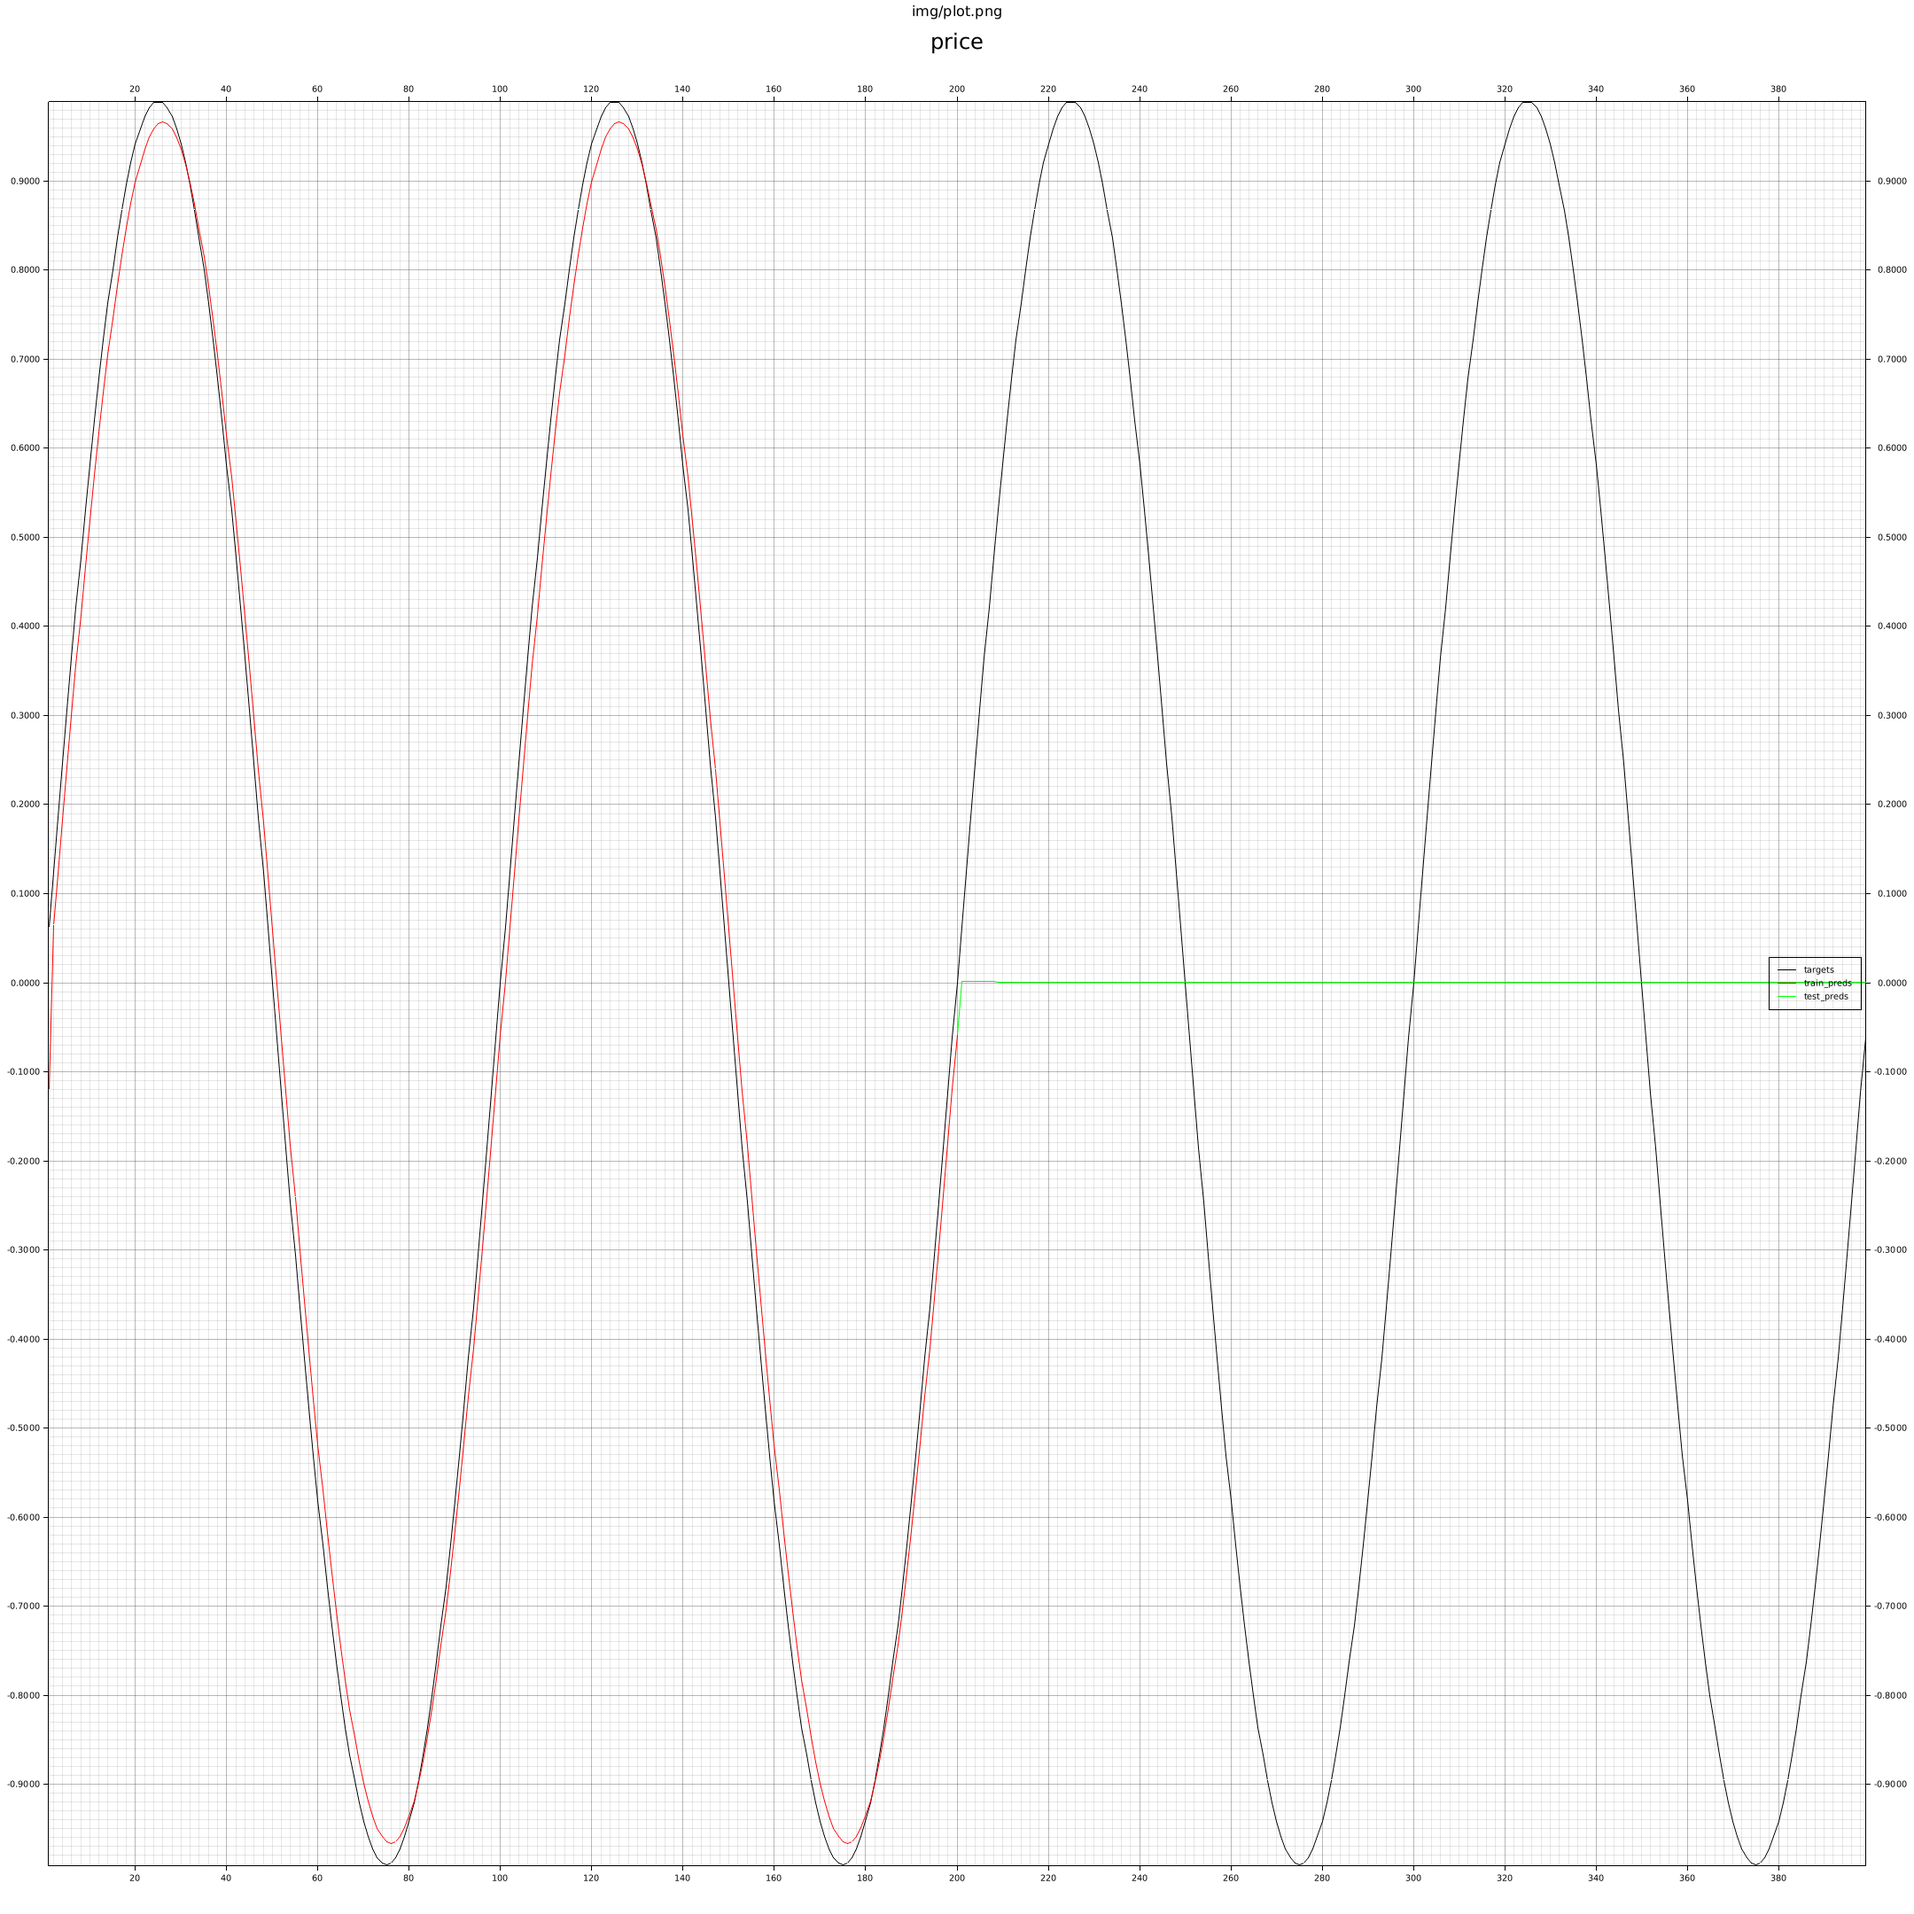
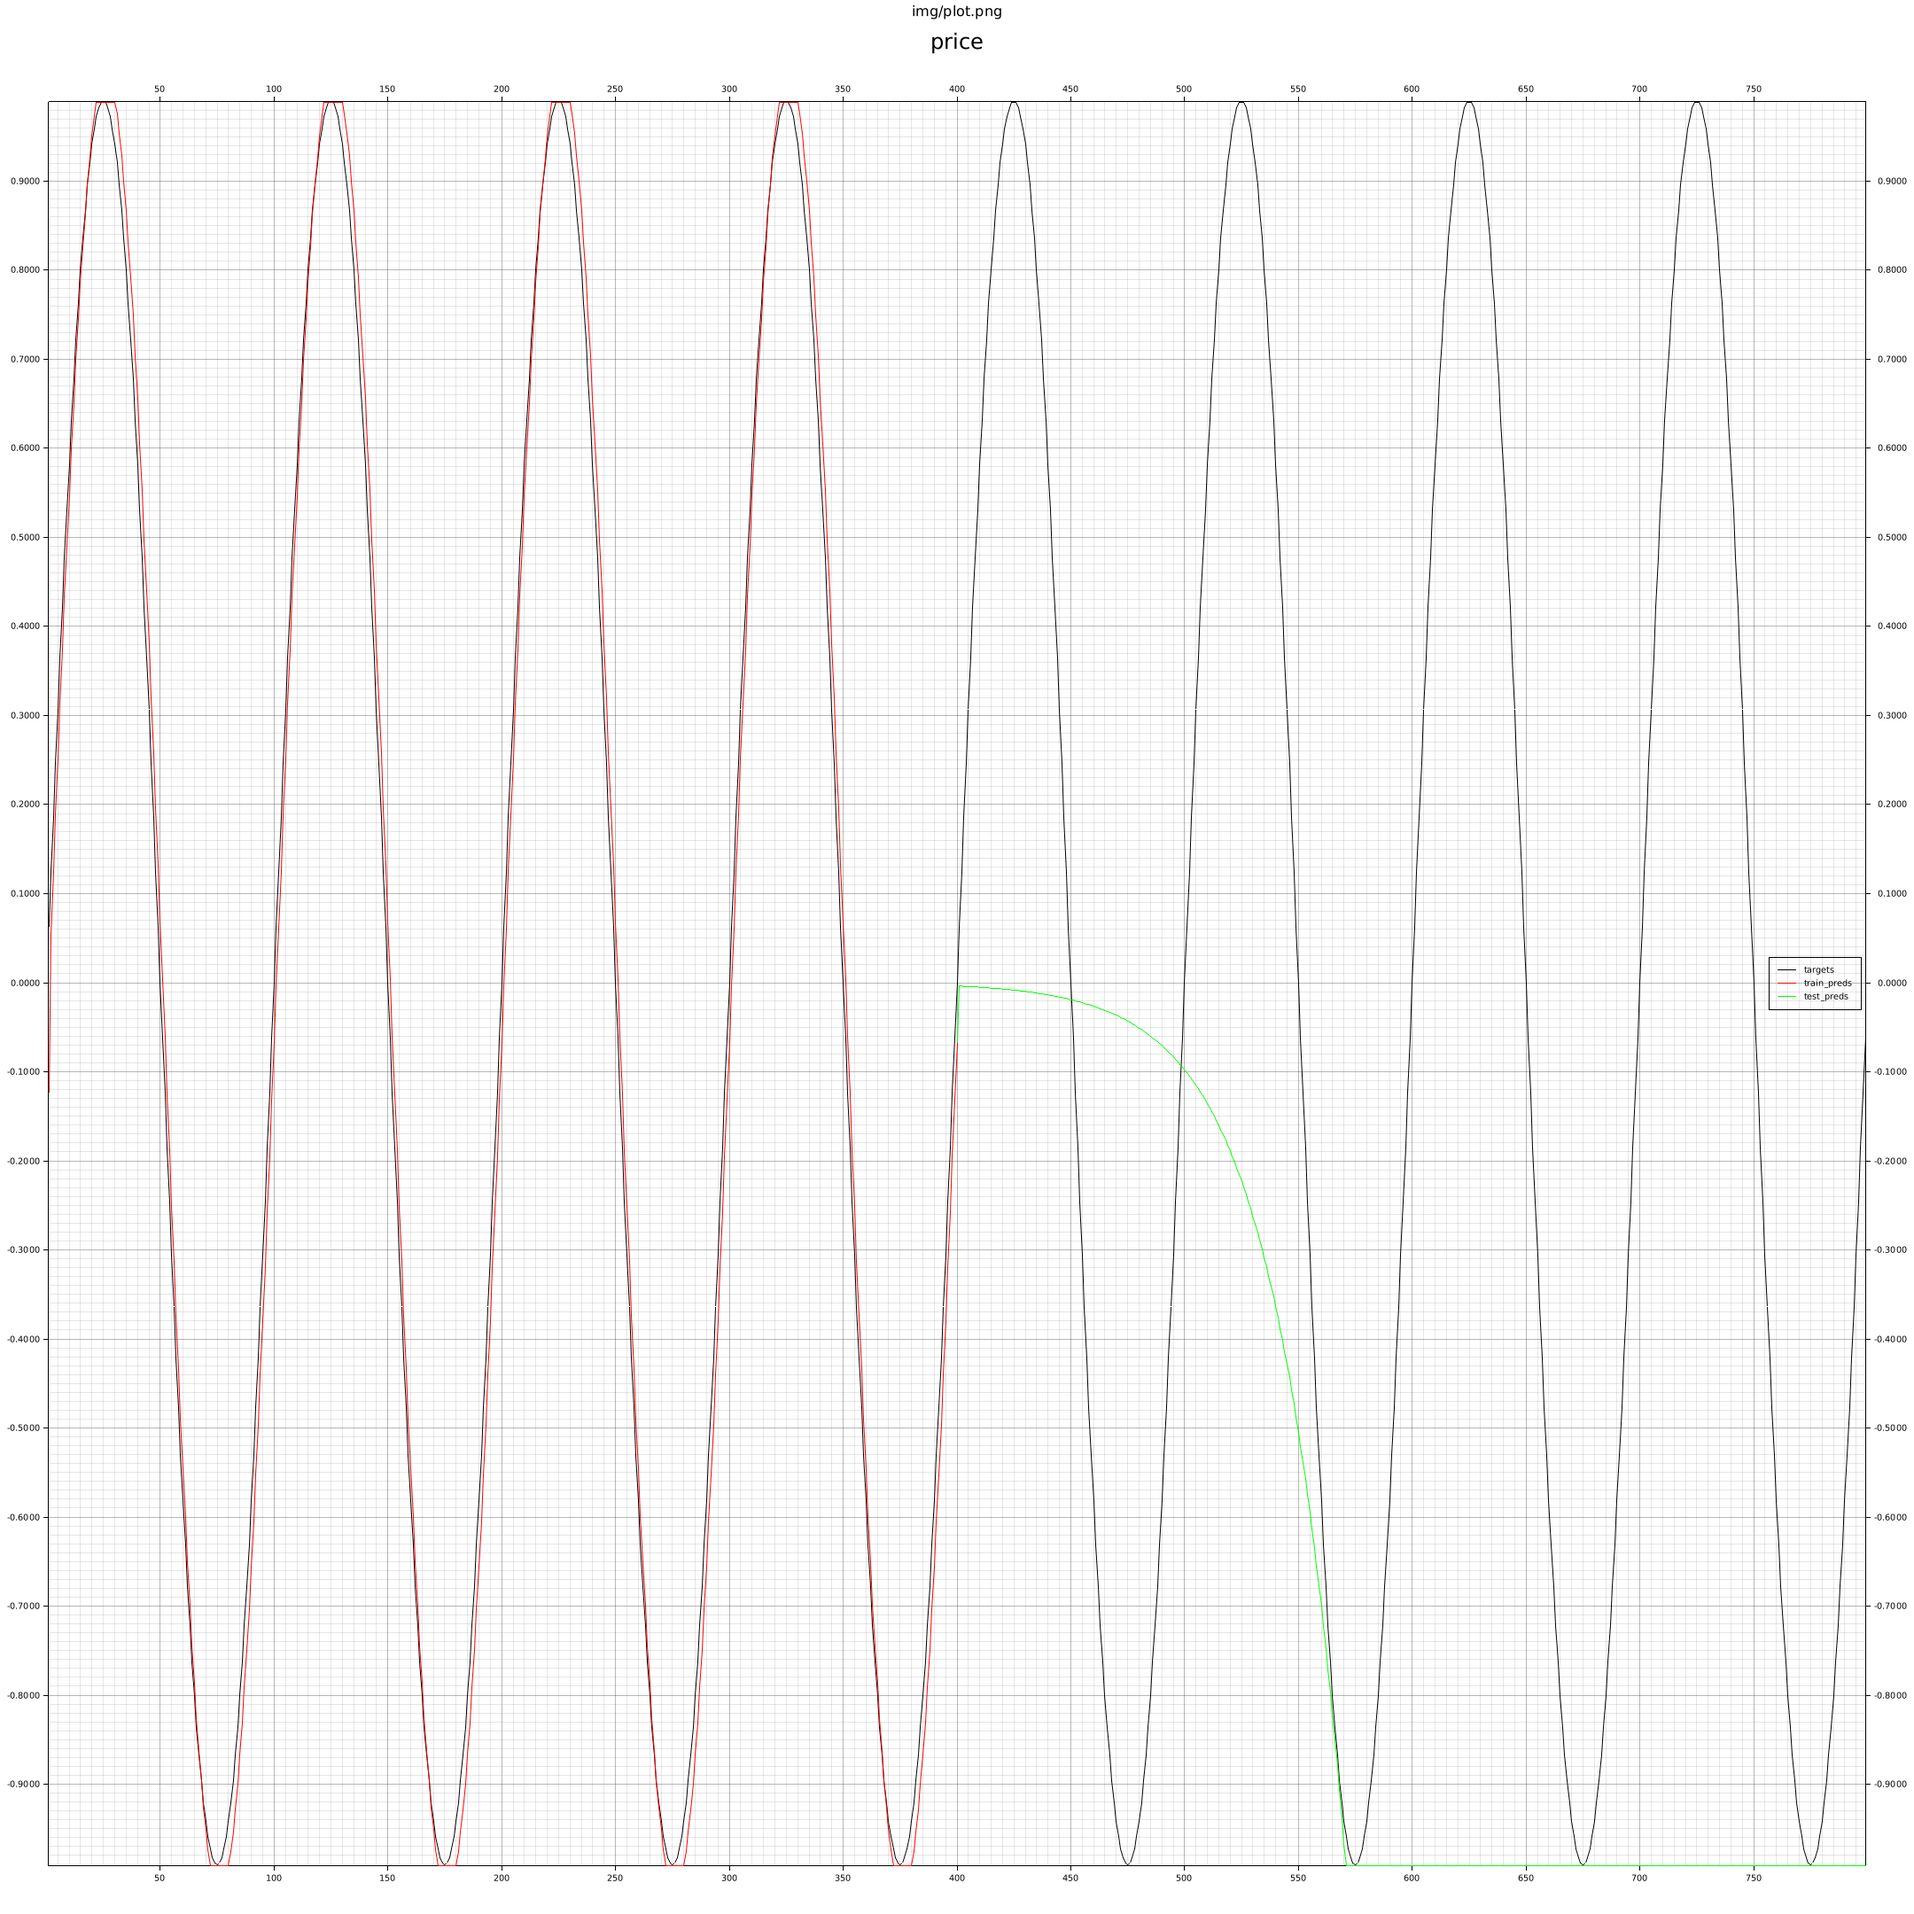
reservoir now has feedback matrix

diff --git a/src/esn.rs b/src/esn.rs
@@ -5,6 +5,8 @@ const INPUT_DIM: usize = 1;
 const OUTPUT_DIM: usize = 1;
 
 pub(crate) type StateMatrix = Matrix<f64, Dynamic, Const<1>, VecStorage<f64, Dynamic, Const<1>>>;
+pub(crate) type PredictionMatrix =
+    Matrix<f64, Const<OUTPUT_DIM>, Const<OUTPUT_DIM>, ArrayStorage<f64, OUTPUT_DIM, OUTPUT_DIM>>;
 
 /// reservoir_size: number of nodes in the reservoir
 /// fixed_in_degree_k: number of inputs per node
@@ -41,7 +43,7 @@ pub(crate) struct Params {
     pub(crate) seed: Option<u64>,
 }
 
-/// The Reseoir Computer, Echo State Network
+/// The Reseoir Computer, Leaky Echo State Network
 #[derive(Debug)]
 pub(crate) struct ESN {
     params: Params,
@@ -50,6 +52,8 @@ pub(crate) struct ESN {
     reservoir_matrix: DMatrix<f64>,
     readout_matrix:
         Matrix<f64, Const<OUTPUT_DIM>, Dynamic, VecStorage<f64, Const<OUTPUT_DIM>, Dynamic>>,
+    feedback_matrix:
+        Matrix<f64, Dynamic, Const<OUTPUT_DIM>, VecStorage<f64, Dynamic, Const<OUTPUT_DIM>>>,
     state: StateMatrix,
 }
 
@@ -106,6 +110,23 @@ impl ESN {
             Dim::from_usize(params.reservoir_size),
             |_, _| rng.generate::<f64>() * 2.0 - 1.0,
         );
+        let feedback_matrix: Matrix<
+            f64,
+            Dynamic,
+            Const<OUTPUT_DIM>,
+            VecStorage<f64, Dynamic, Const<OUTPUT_DIM>>,
+        > = Matrix::from_fn_generic(
+            Dim::from_usize(params.reservoir_size),
+            Dim::from_usize(OUTPUT_DIM),
+            |_, _| {
+                // TODO: input_sparsity should maybe be feedback_sparsity
+                if rng.generate::<f64>() < params.input_sparsity {
+                    rng.generate::<f64>() * params.input_scaling
+                } else {
+                    0.0
+                }
+            },
+        );
         let state: StateMatrix = Matrix::from_element_generic(
             Dim::from_usize(params.reservoir_size),
             Dim::from_usize(1),
@@ -122,6 +143,7 @@ impl ESN {
             input_matrix,
             readout_matrix,
             state,
+            feedback_matrix,
         }
     }
 
@@ -143,11 +165,12 @@ impl ESN {
             Dynamic,
             VecStorage<f64, Const<1>, Dynamic>,
         > = Matrix::from_element_generic(Dim::from_usize(1), Dim::from_usize(values.len()), 0.0);
+        let mut curr_pred = &self.readout_matrix * &self.state;
         for (j, (val_0, val_1)) in values.iter().zip(values.iter().skip(1)).enumerate() {
             let prev_state = self.state.clone();
-            self.state = self.state_update(*val_0, &prev_state);
+            self.state = self.state_update(*val_0, &prev_state, &curr_pred);
 
-            let predicted_out = &self.readout_matrix * &self.state;
+            curr_pred = &self.readout_matrix * &self.state;
 
             // discard earlier values, as the state has to stabilize first
             step_wise_state.set_column(j, &self.state);
@@ -158,7 +181,7 @@ impl ESN {
                 ArrayStorage<f64, OUTPUT_DIM, OUTPUT_DIM>,
             > = Matrix::from_element_generic(Dim::from_usize(1), Dim::from_usize(1), *val_1);
             step_wise_target.set_column(j, &target);
-            step_wise_predictions.set_column(j, &predicted_out);
+            step_wise_predictions.set_column(j, &curr_pred);
         }
 
         // compute optimal readout matrix
@@ -176,9 +199,15 @@ impl ESN {
         info!("trained readout_matrix: {}", self.readout_matrix);
     }
 
-    pub(crate) fn state_update(&mut self, input: f64, prev_state: &StateMatrix) -> StateMatrix {
+    pub(crate) fn state_update(
+        &mut self,
+        input: f64,
+        prev_state: &StateMatrix,
+        prev_pred: &PredictionMatrix,
+    ) -> StateMatrix {
         let mut new_state = (1.0 - self.params.leaking_rate) * &self.input_matrix * input
-            + self.params.leaking_rate * &self.reservoir_matrix * prev_state;
+            + self.params.leaking_rate * &self.reservoir_matrix * prev_state
+            + self.params.leaking_rate * &self.feedback_matrix * prev_pred;
         new_state.iter_mut().for_each(|v| *v = v.tanh());
 
         new_state

diff --git a/src/main.rs b/src/main.rs
@@ -31,17 +31,18 @@ fn main() {
     let mut values: Vec<f64> = generate_sine_wave(100);
     values.append(&mut values.clone());
     values.append(&mut values.clone());
+    values.append(&mut values.clone());
     info!("got {} datapoints", values.len());
 
-    const TRAINING_WINDOW: usize = 200;
+    const TRAINING_WINDOW: usize = 400;
 
     let t0 = Instant::now();
 
     let params = Params {
-        reservoir_size: 10,
+        reservoir_size: 30,
         fixed_in_degree_k: 4,
-        input_sparsity: 0.5,
-        input_scaling: 0.1,
+        input_sparsity: 0.3,
+        input_scaling: 0.05,
         input_bias: 0.0,
         spectral_radius: 0.9,
         leaking_rate: 0.15,
@@ -75,7 +76,7 @@ fn main() {
             *val
         };
 
-        state = rc.state_update(val, &state)
+        state = rc.state_update(val, &state, &predicted_out)
     }
 
     info!("t_diff: {}ms", t0.elapsed().as_millis());

diff --git a/README.md b/README.md
@@ -1,4 +1,8 @@
 # Reservoir Computer in Rust
 
 # TODOS:
-- introduce ESNParams struct for clearer parameter passing
+- Output activation function
+- Output over extended state which included inputs 
+- optional Feedback matrix
+- implement benchmark chaotic dynamical systems
+- implement lyapunov time for analysis purposes
